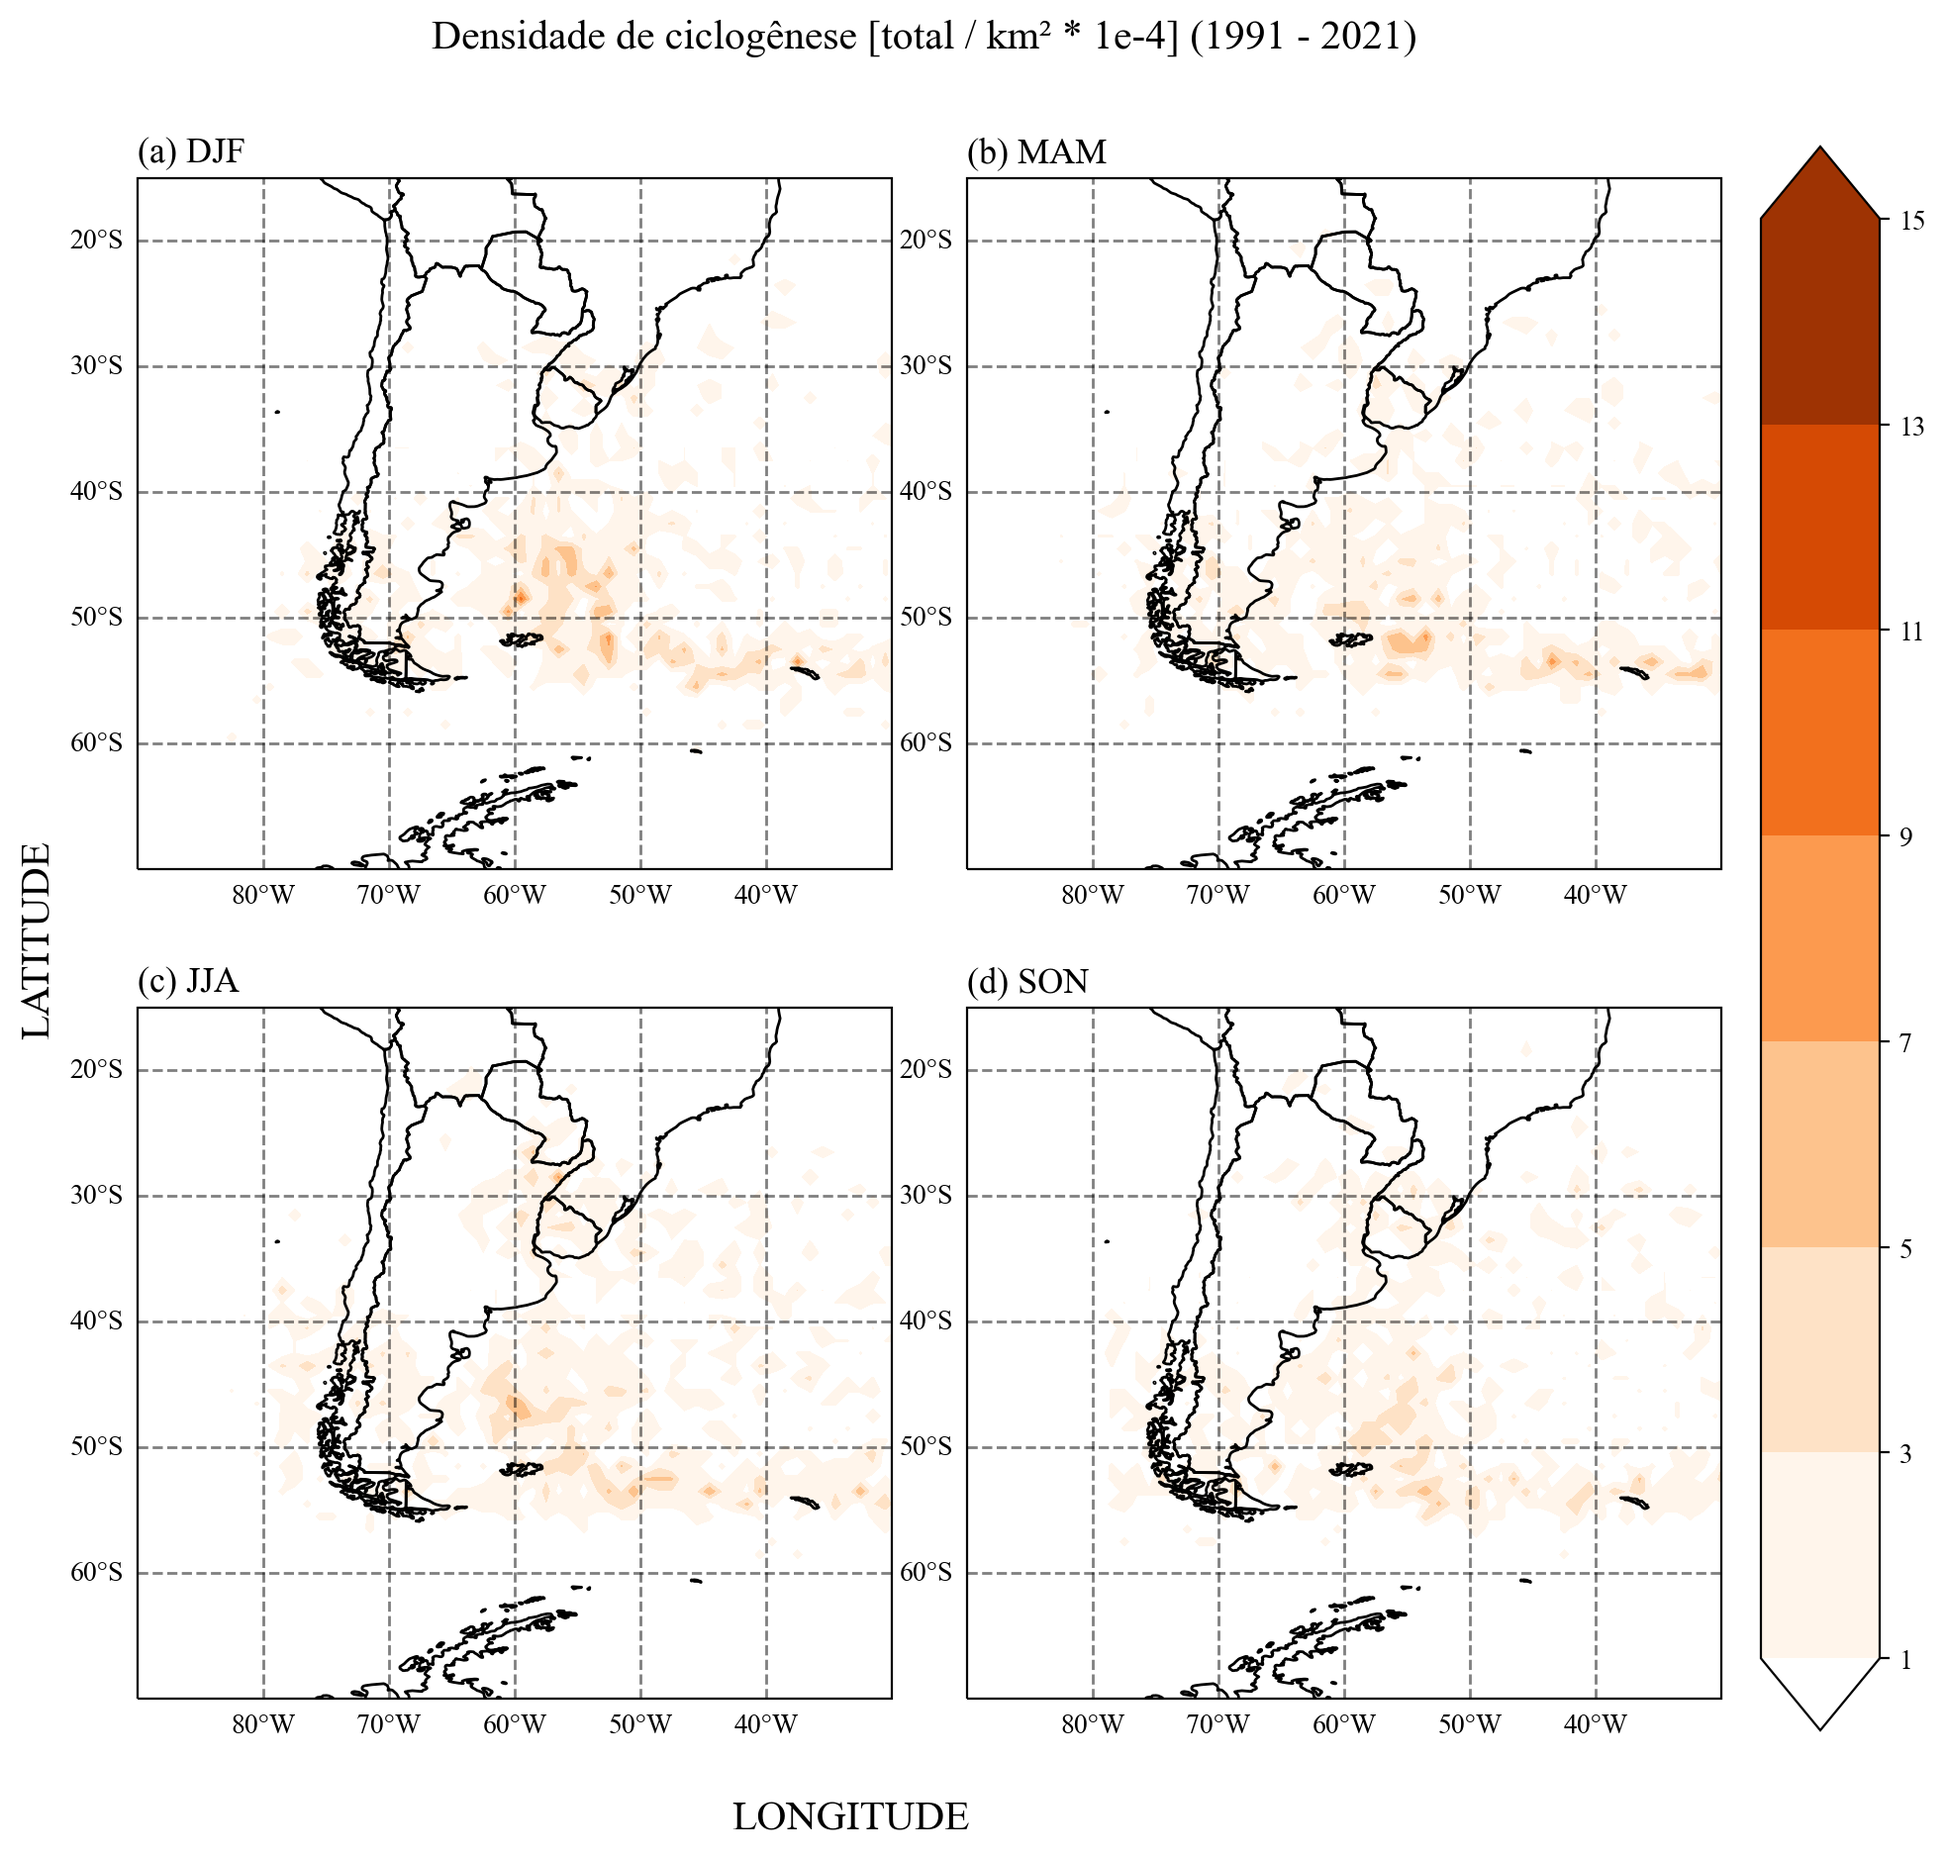
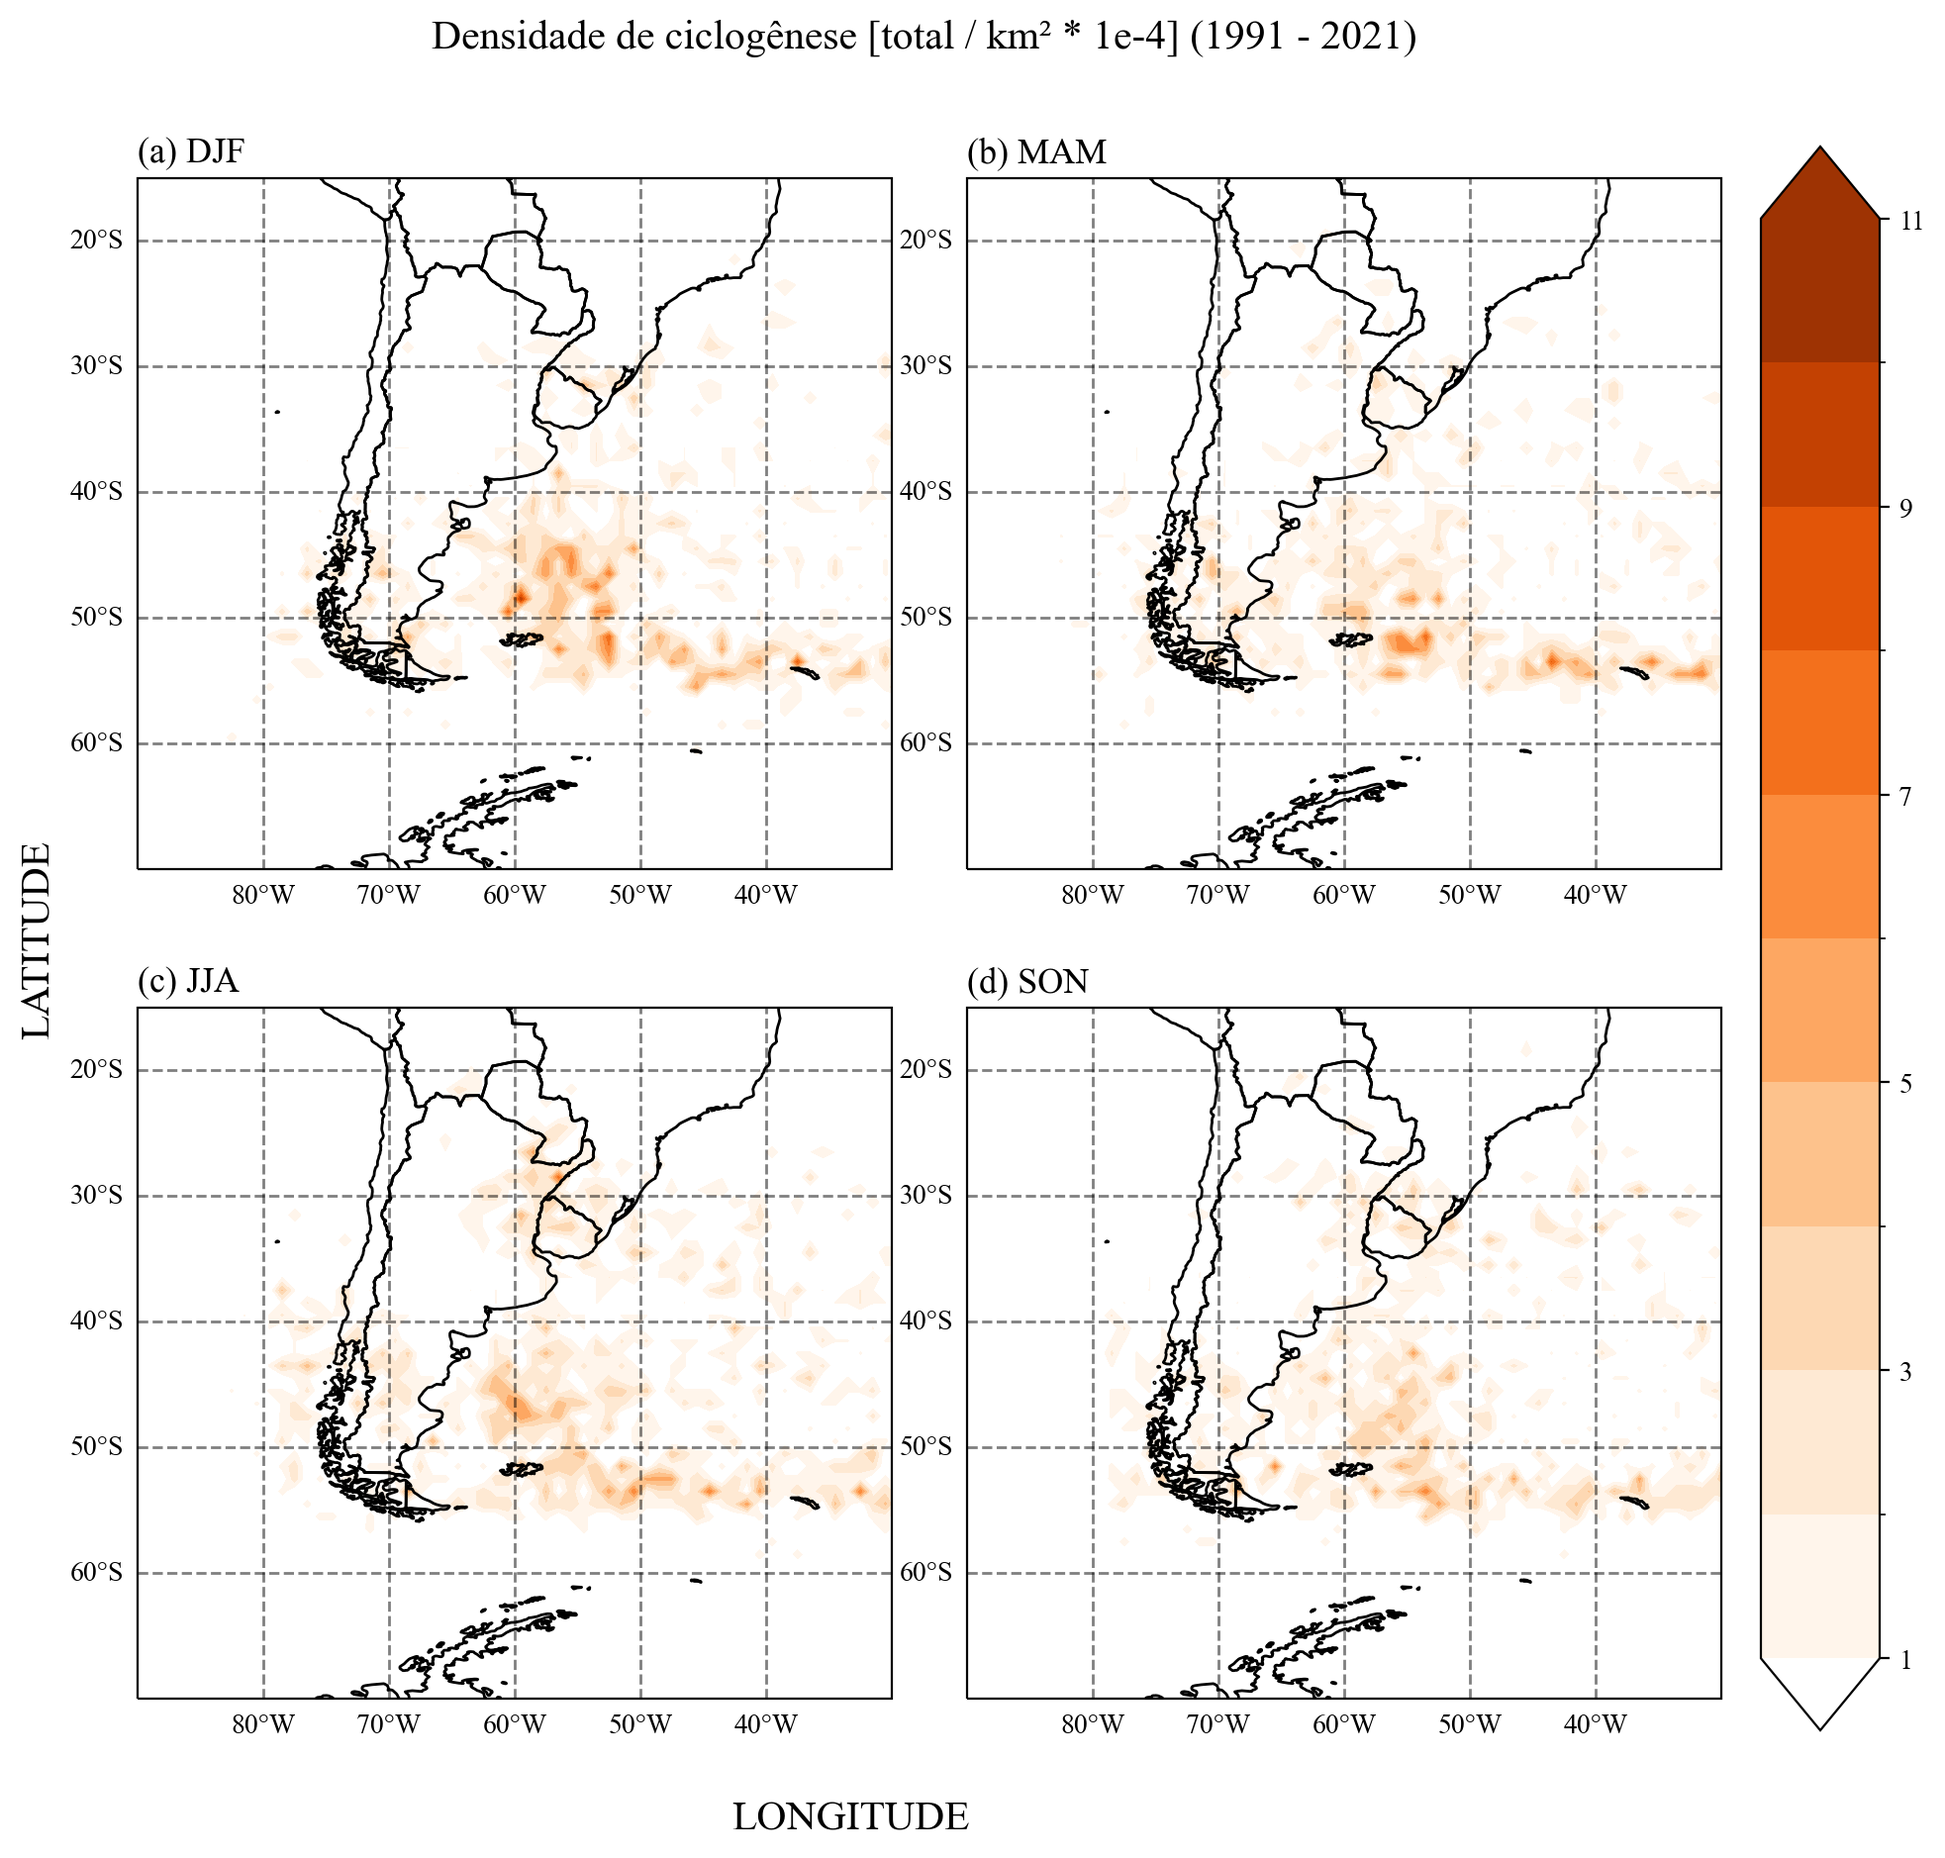
Atualizacao do mapa de densidade ciclogenetica

diff --git a/Scripts/densidade_ciclogenetica.py b/Scripts/densidade_ciclogenetica.py
@@ -137,6 +137,111 @@ def gerar_netcdf(data_folder, years, resolucao : int = 5):
 	ds.to_netcdf(os.path.join(save_folder, filename))
 
 
+def areas_ciclogeneticas(data_folder, years, sazonal = False):
+	'''
+	Gera um arquivo csv com a série temporal da quantidade de ciclogeneses
+	por areas ciclogenetica, conforme defeinida através da analise da figura
+	de densidade de ciclogeneses.
+
+	Input são os ciclones identificdos pelo tracking após o pos-processamento 
+	(aplicacao do filtro)
+
+	Years deve ser uma lista em ordem crescente.
+	'''
+
+	# cria uma pasta "Processado" no diretorio pai, tudo bem se ja houver
+	par_dir = os.path.abspath(os.path.join(data_folder, os.pardir))
+	save_folder = os.path.join(par_dir, 'Processado')
+	os.makedirs(save_folder, exist_ok=True)
+
+	# array de datas
+	times = pd.date_range(start = f"{years[0]}-1-1", end = f"{years[-1]}-12-1", freq = 'MS') 
+
+	#A1 (Regiao Ciclogenetica no litoral do Urugai/ regiao sul)
+	A1_lon = slice(-60.0, -50.0)
+	A1_lat = slice(-27.5, -37.5)
+	A1_values = np.zeros(times.shape)
+
+	#A2 (Regiao ciclogenetica no litoral da Argentina)
+	A2_lon = slice(-62.5, -52.5)
+	A2_lat = slice(-40.0, -50.0)
+	A2_values = np.zeros(times.shape)
+
+	#A3 (Regiao ciclogenetica na patagonia)
+	A3_lon = slice(-72.5, -62.5)
+	A3_lat = slice(-45.0, -55.0)
+	A3_values = np.zeros(times.shape)
+
+	# config
+	meses = np.linspace(1, 12, 12).astype(int) # array de meses
+	ano_inicio = years[0] # menor ano
+
+	# Loop para cada ano (arquivos):
+	for year in years:
+		df = pd.read_csv(os.path.join(data_folder, f"{year}.csv"), header = 0)
+
+		# converte lon [0,360] para [-180, 180]
+		df['longitude'] = ((df['longitude'] + 180) % 360) - 180
+
+		# convetendo objetos datetime
+		df['datetime'] = pd.to_datetime(df['datetime'])
+
+		# estimando a qual regiao ciclogeneticapertence cada ponto
+		df['regiao'] = "Nenhuma"
+
+		df.loc[((df['longitude'] >= A1_lon.start) & (df['longitude'] <= A1_lon.stop))
+							& ((df['latitude'] >= A1_lat.stop) & (df['latitude'] <= A1_lat.start)), 'regiao'] = "A1"
+
+		df.loc[((df['longitude'] >= A2_lon.start) & (df['longitude'] <= A2_lon.stop))
+							& ((df['latitude'] >= A2_lat.stop) & (df['latitude'] <= A2_lat.start)), 'regiao'] = "A2"
+			
+		df.loc[((df['longitude'] >= A3_lon.start) & (df['longitude'] <= A3_lon.stop))
+							& ((df['latitude'] >= A3_lat.stop) & (df['latitude'] <= A3_lat.start)), 'regiao'] = "A3"
+
+		# loop para cada mes
+		for month in meses:
+			# slice para o mes e ano
+			subset = df.loc[df['datetime'].dt.month == month]
+
+			# resgatando o primeiro passo de tempo de cada ciclone
+			subset = subset.loc[subset['step'] == 0]
+
+			# estimando a quantidade de pontos (ciclogeneses) por regiao
+			qtd = subset['regiao'].groupby(subset['regiao']).size()
+			qtd = qtd.reindex(['Nenhuma', 'A1', 'A2', 'A3'], fill_value= 0)
+
+			# posicao no array
+			idx = (year - ano_inicio) * 12 + (month - 1) 
+
+			# atribuindo as quantidades
+			A1_values[idx] = qtd['A1']
+			A2_values[idx] = qtd['A2']
+			A3_values[idx] = qtd['A3']
+
+	# Criando um novo DataFrame para armazenar os resultados
+	content = {'time' : times, 'A1' : A1_values, 'A2' : A2_values, 'A3' : A3_values}
+	new_df = pd.DataFrame.from_dict(content)
+	new_df['ano'] = new_df.time.dt.year
+	new_df['month'] = new_df.time.dt.month
+
+	# salvando
+	filename = 'frequencia_ciclogenese_mensal_AREAS.csv'
+	if sazonal:
+		new_df['trimestre'] = (new_df['month'] // 3) % 4
+		new_df['estacao'] = new_df['trimestre'].apply(lambda x: ['VERAO', 'OUTONO', 'INVERNO', 'PRIMAVERA'][x])
+		new_df['trimestre'] = new_df['trimestre'].apply(lambda x: ['DJF', 'MAM', 'JJA', 'SON'][x])
+		new_df = new_df.drop(['month', 'time'], axis = 1).groupby(['trimestre', 'ano']).agg(
+			A1 = ('A1', 'sum'),
+			A2 = ('A2', 'sum'),
+			A3 = ('A3', 'sum'),
+		)
+
+		new_df = new_df.reset_index()
+		filename = 'frequencia_cilcogenese_sazonal_AREAS.csv'
+
+	new_df.to_csv(os.path.join(save_folder, filename), index = False)
+	
+
 def regioes_ciclogeneticas(data_folder, years):
 	'''
 	Gera um arquivo csv com a série temporal da quantidade de ciclogeneses

diff --git a/main.py b/main.py
@@ -48,16 +48,18 @@ if __name__ == "__main__":
 	# /////////////////////////////////////////////////////////////////////
 
 	# Confecção do NetCDF com a densidade ciclogenética
-	densidade_ciclogenetica.gerar_netcdf(dados_filtrados_dir, anos, resolucao = 1)
+	# densidade_ciclogenetica.gerar_netcdf(dados_filtrados_dir, anos, resolucao = 1)
 
 	# Visualizar plot basico do netcdf gerado
-	visualizar_mapas(processados_dir, figuras_folder)
+	# visualizar_mapas(processados_dir, figuras_folder)
 
 	# # serie temporal da quantidade de ciclogenese por regiao ciclogenetica
-	densidade_ciclogenetica.regioes_ciclogeneticas(dados_filtrados_dir, anos)
+	# densidade_ciclogenetica.regioes_ciclogeneticas(dados_filtrados_dir, anos)
+	# densidade_ciclogenetica.areas_ciclogeneticas(dados_filtrados_dir, anos, sazonal = True)
+	# densidade_ciclogenetica.areas_ciclogeneticas(dados_filtrados_dir, anos)
 
 	# # Sazonalidade espacial ciclogenese
-	sazonalidade_ciclogenese(processados_dir, figuras_folder)
+	# sazonalidade_ciclogenese(processados_dir, figuras_folder)
 
 	# SERIES TEMPORAIS
 	# ///////////////////////////////////////////////////////////////////////

diff --git a/Scripts/graficos_espaciais.py b/Scripts/graficos_espaciais.py
@@ -144,7 +144,7 @@ def sazonalidade_ciclogenese(data_folder, save_folder):
 	# LEGENDA
 	# /////////////////////////////////////////////////////////////////////////
 	# define os intervalos da legenda
-	q_levs = np.array([1, 3, 5, 7, 9, 11, 13, 15])
+	q_levs = np.array([1, 2, 3, 4, 5, 6, 7, 8, 9, 10, 11])
 
 	# lista de cores, em ordem crescete. RGBA
 	cmap = mcm.get_cmap('Oranges')
